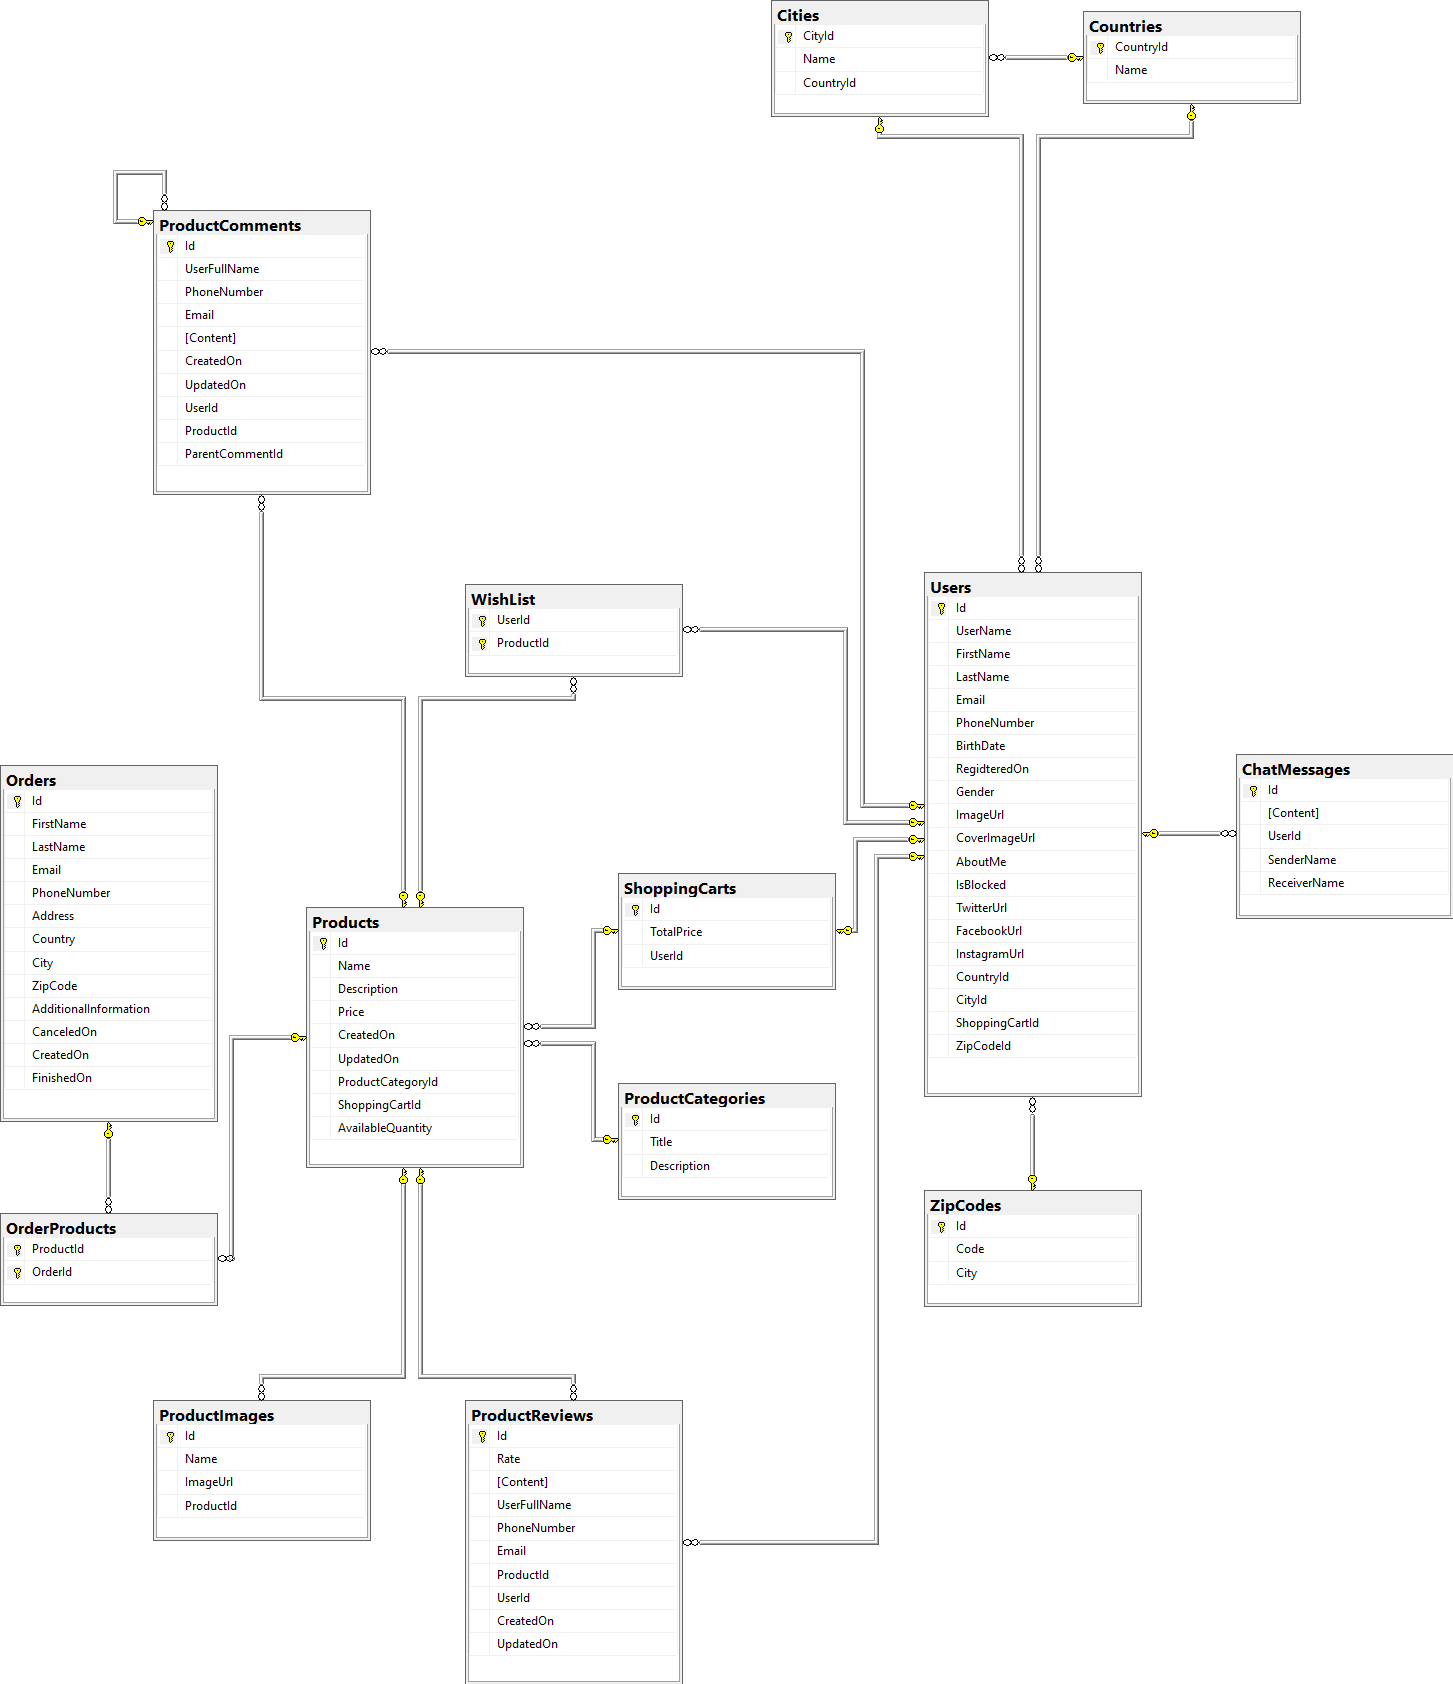
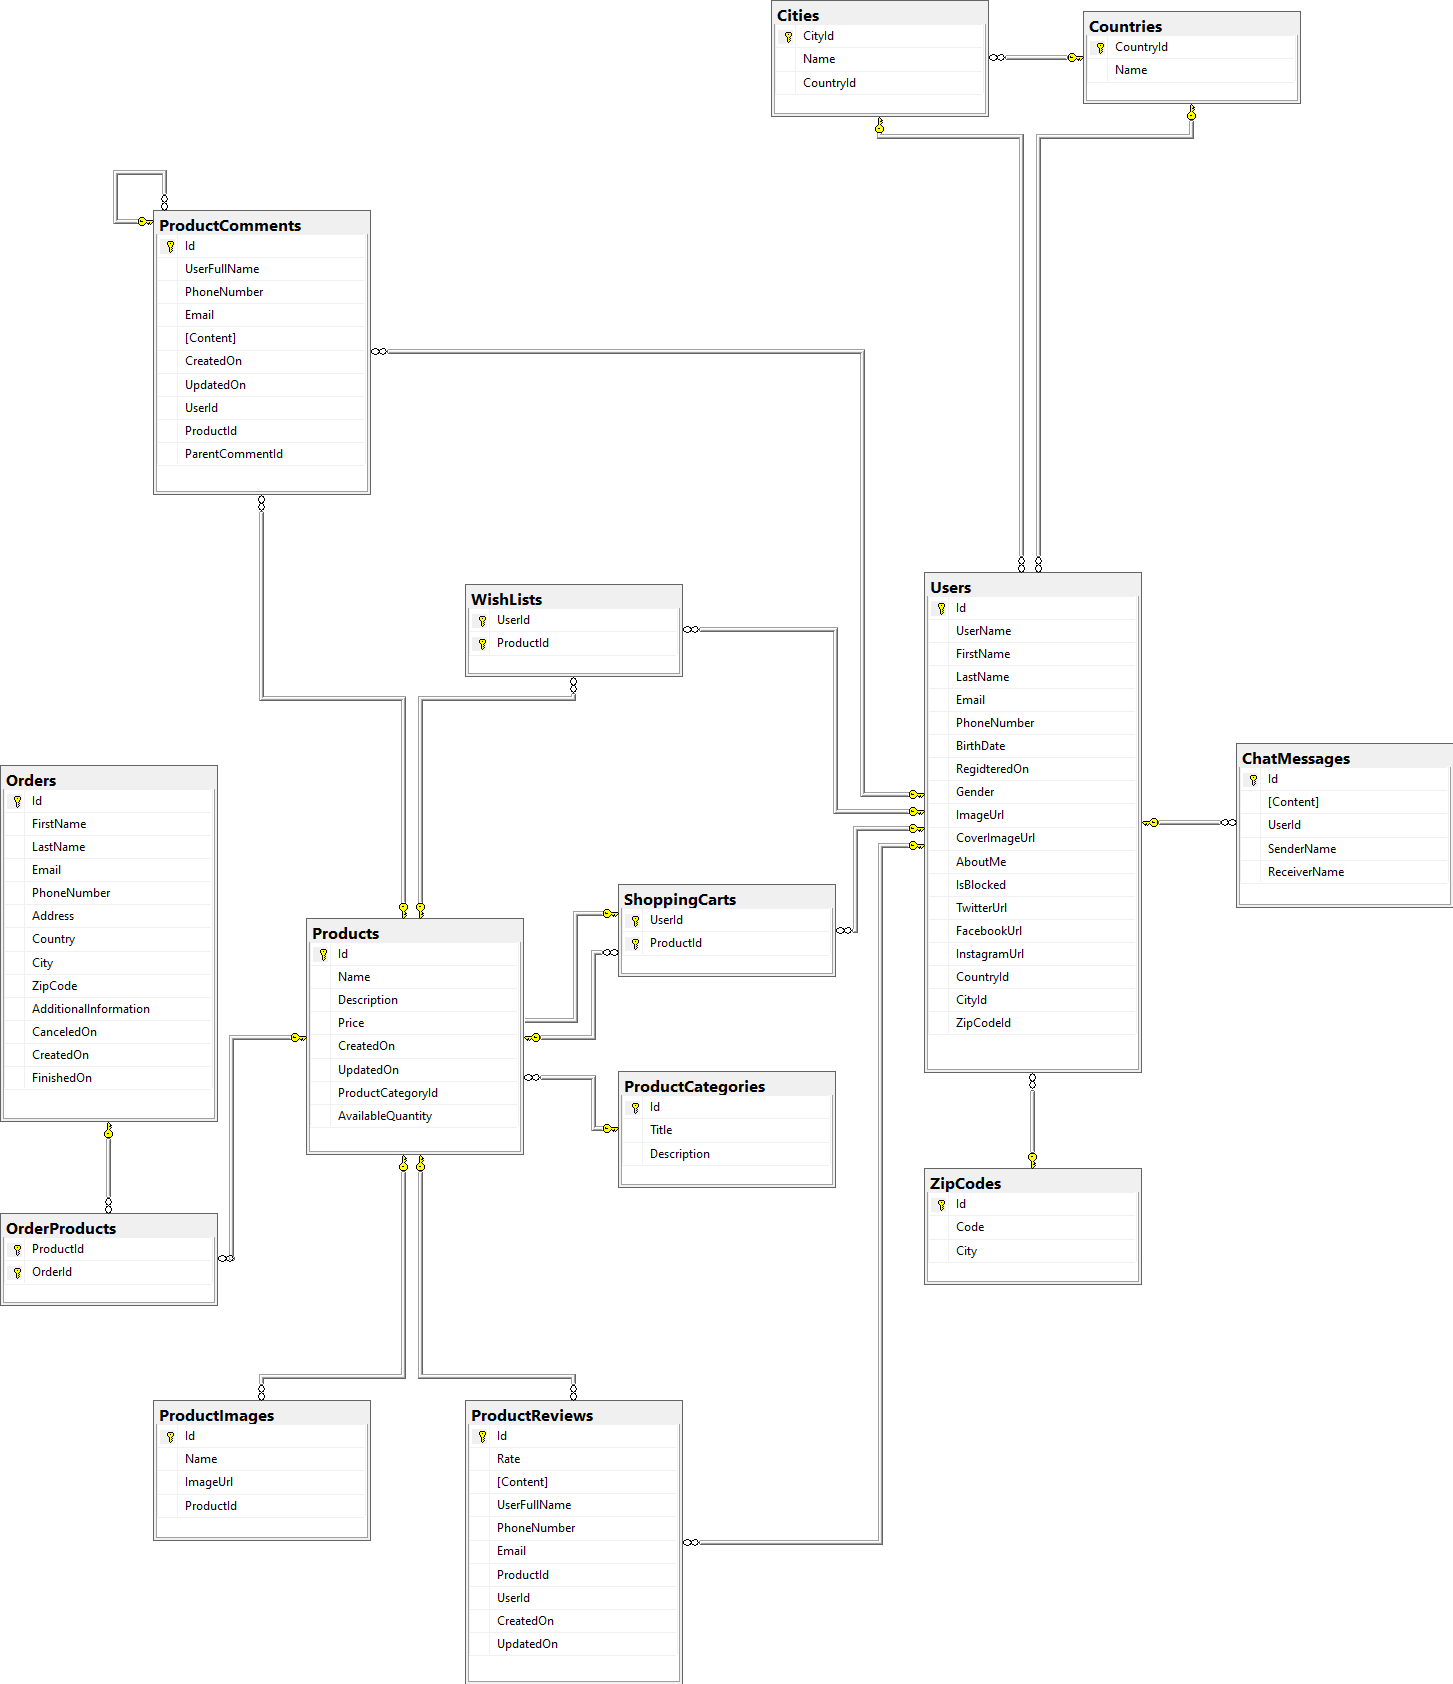
change ShoppingCartRelations and create DbSet for WishList

diff --git a/GrandBazar/GrandBazar.Models/Product.cs b/GrandBazar/GrandBazar.Models/Product.cs
@@ -32,11 +32,6 @@ namespace GrandBazar.Models
         public string ProductCategoryId { get; set; }
         public virtual ProductCategory ProductCategory { get; set; }
 
-        [Required]
-        [ForeignKey(nameof(ShoppingCart))]
-        public string ShoppingCartId { get; set; }
-        public virtual ShoppingCart ShoppingCart { get; set; }
-
         public int AvailableQuantity { get; set; }
 
         public virtual ICollection<OrderProduct> OrderProducts { get; set; } = new HashSet<OrderProduct>();
@@ -48,5 +43,8 @@ namespace GrandBazar.Models
         public virtual ICollection<ProductImage> ProductImages { get; set; } = new HashSet<ProductImage>();
 
         public virtual ICollection<WishList> WishLists { get; set; } = new HashSet<WishList>();
+
+        public virtual ICollection<ShoppingCart> ShoppingCarts { get; set; } = new HashSet<ShoppingCart>();
+
     }
 }

diff --git a/GrandBazar/GrandBazar.Models/User.cs b/GrandBazar/GrandBazar.Models/User.cs
@@ -64,11 +64,6 @@ namespace GrandBazar.Models
         public virtual City City { get; set; }
 
         [Required]
-        [ForeignKey(nameof(ShoppingCart))]
-        public string ShoppingCartId { get; set; }
-        public virtual ShoppingCart ShoppingCart { get; set; }
-
-        [Required]
         [ForeignKey(nameof(ZipCode))]
         public string ZipCodeId { get; set; }
         public virtual ZipCode ZipCode { get; set; }
@@ -80,5 +75,8 @@ namespace GrandBazar.Models
         public virtual ICollection<ProductReview> ProductReviews { get; set; } = new HashSet<ProductReview>();
 
         public virtual ICollection<WishList> WishLists { get; set; } = new HashSet<WishList>();
+
+        public virtual ICollection<ShoppingCart> ShoppingCarts { get; set; } = new HashSet<ShoppingCart>();
+
     }
 }

diff --git a/GrandBazar/GrandBazar.Models/ShoppingCart.cs b/GrandBazar/GrandBazar.Models/ShoppingCart.cs
@@ -10,16 +10,10 @@ namespace GrandBazar.Models
 {
     public class ShoppingCart
     {
-        public string Id { get; set; } = new Guid().ToString();
-
-        [Range(typeof(decimal),AttributesConstraints.PriceMinValue,AttributesConstraints.PriceMaxValue)]
-        public decimal TotalPrice { get; set; }
-
-        [Required]
-        [ForeignKey(nameof(User))]
         public string UserId { get; set; }
         public virtual User User { get; set; }
 
-        public virtual ICollection<Product> Products { get; set; } = new HashSet<Product>();
+        public string ProductId { get; set; }
+        public virtual Product Product { get; set; }
     }
 }

diff --git a/GrandBazar/GrandBazar.Data/EntityConfigurations/ShoppingCartConfiguration.cs b/GrandBazar/GrandBazar.Data/EntityConfigurations/ShoppingCartConfiguration.cs
@@ -11,6 +11,18 @@ namespace GrandBazar.Data.EntityConfigurations
     {
         public void Configure(EntityTypeBuilder<ShoppingCart> shoppingCart)
         {
+
+            shoppingCart.HasKey(x => new { x.ProductId, x.UserId });
+
+            shoppingCart
+                .HasOne(x => x.Product)
+                .WithMany(y => y.ShoppingCarts)
+                .OnDelete(DeleteBehavior.Restrict);
+
+            shoppingCart
+                .HasOne(x => x.User)
+                .WithMany(y => y.ShoppingCarts)
+                .OnDelete(DeleteBehavior.Restrict);
         }
     }
 }

diff --git a/GrandBazar/GrandBazar.Data/EntityConfigurations/UserConfiguration.cs b/GrandBazar/GrandBazar.Data/EntityConfigurations/UserConfiguration.cs
@@ -58,11 +58,6 @@ namespace GrandBazar.Data.EntityConfigurations
                 .HasOne(u => u.City)
                 .WithMany(c => c.Users)
                 .OnDelete(DeleteBehavior.Restrict);
-
-            user
-                .HasOne(u => u.ShoppingCart)
-                .WithOne(sc => sc.User)
-                .OnDelete(DeleteBehavior.Restrict);
         }
     }
 }

diff --git a/GrandBazar/GrandBazar.Data/EntityConfigurations/ProductConfiguration.cs b/GrandBazar/GrandBazar.Data/EntityConfigurations/ProductConfiguration.cs
@@ -20,10 +20,6 @@ namespace GrandBazar.Data.EntityConfigurations
                 .WithMany(pc => pc.Products)
                 .OnDelete(DeleteBehavior.Restrict);
 
-            product
-                .HasOne(p => p.ShoppingCart)
-                .WithMany(sc => sc.Products)
-                .OnDelete(DeleteBehavior.Restrict);
         }
     }
 }

diff --git a/GrandBazar/GrandBazar.Data/GrandBazarDbContext.cs b/GrandBazar/GrandBazar.Data/GrandBazarDbContext.cs
@@ -53,6 +53,8 @@ namespace GrandBazar.Data
 
         public DbSet<ZipCode> ZipCodes { get; set; } // Checked 13
 
+        public DbSet<WishList> WishLists { get; set; } //Checked 14
+
         //TODO: OnModelCreating Method
         protected override void OnModelCreating(ModelBuilder modelBuilder)
         {
